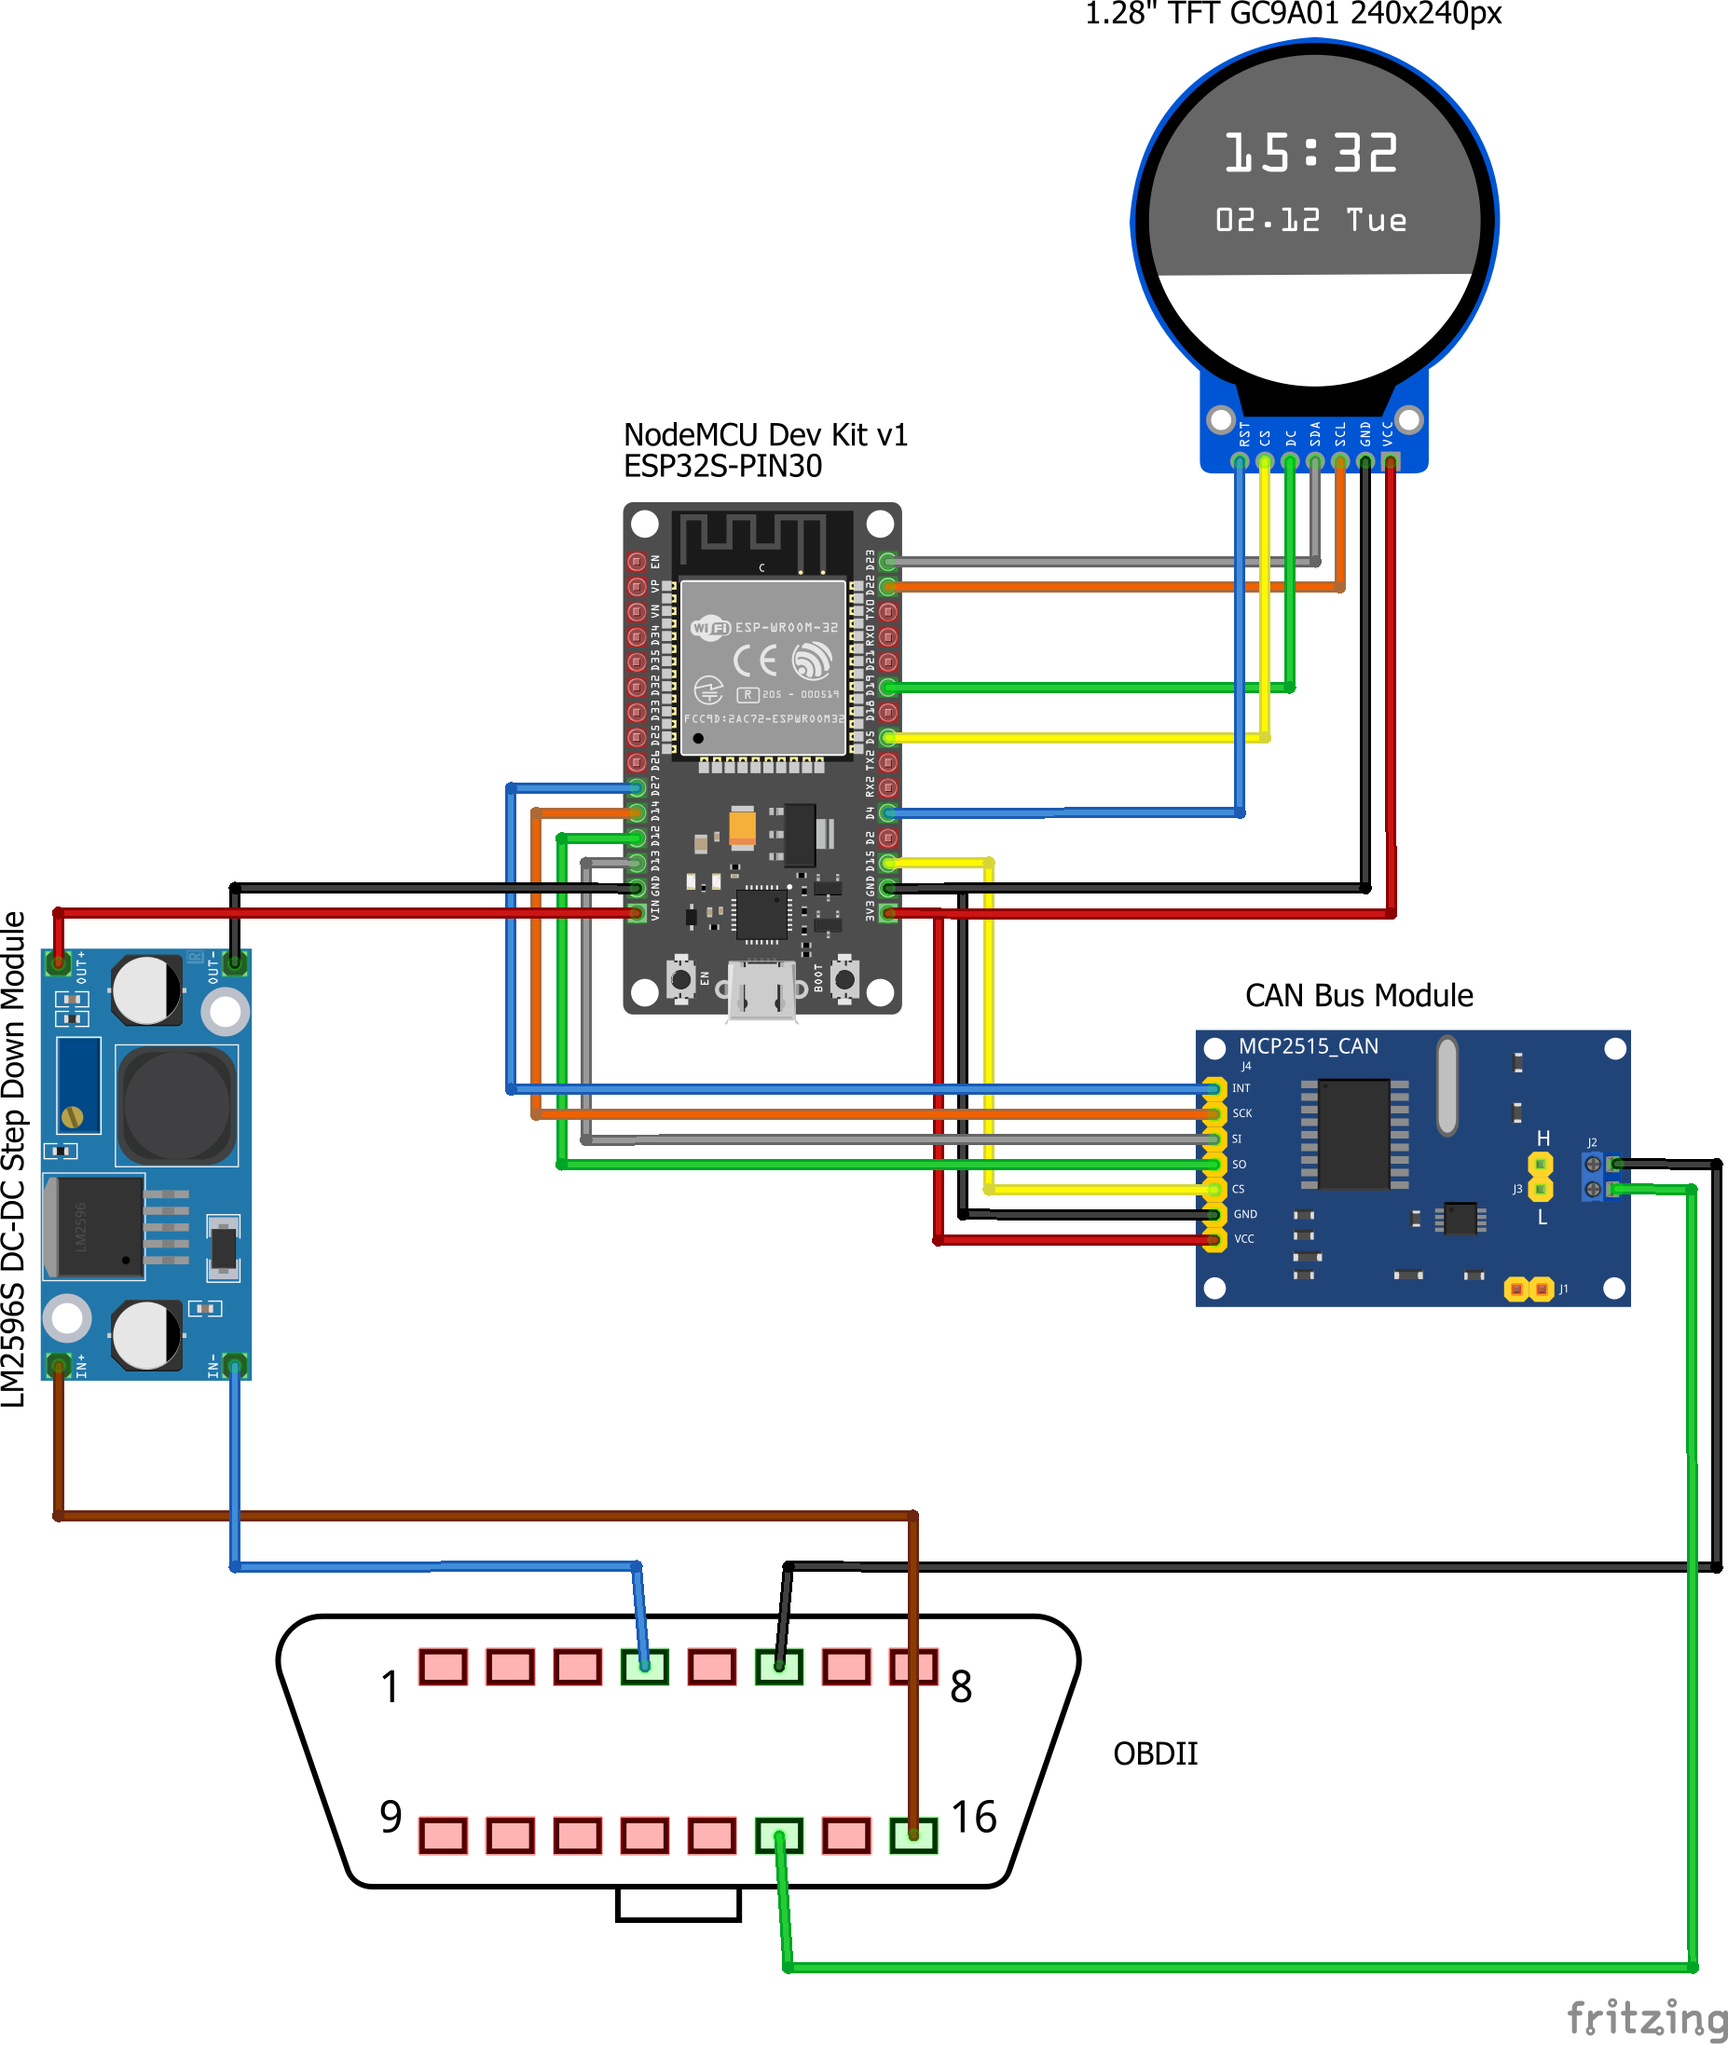
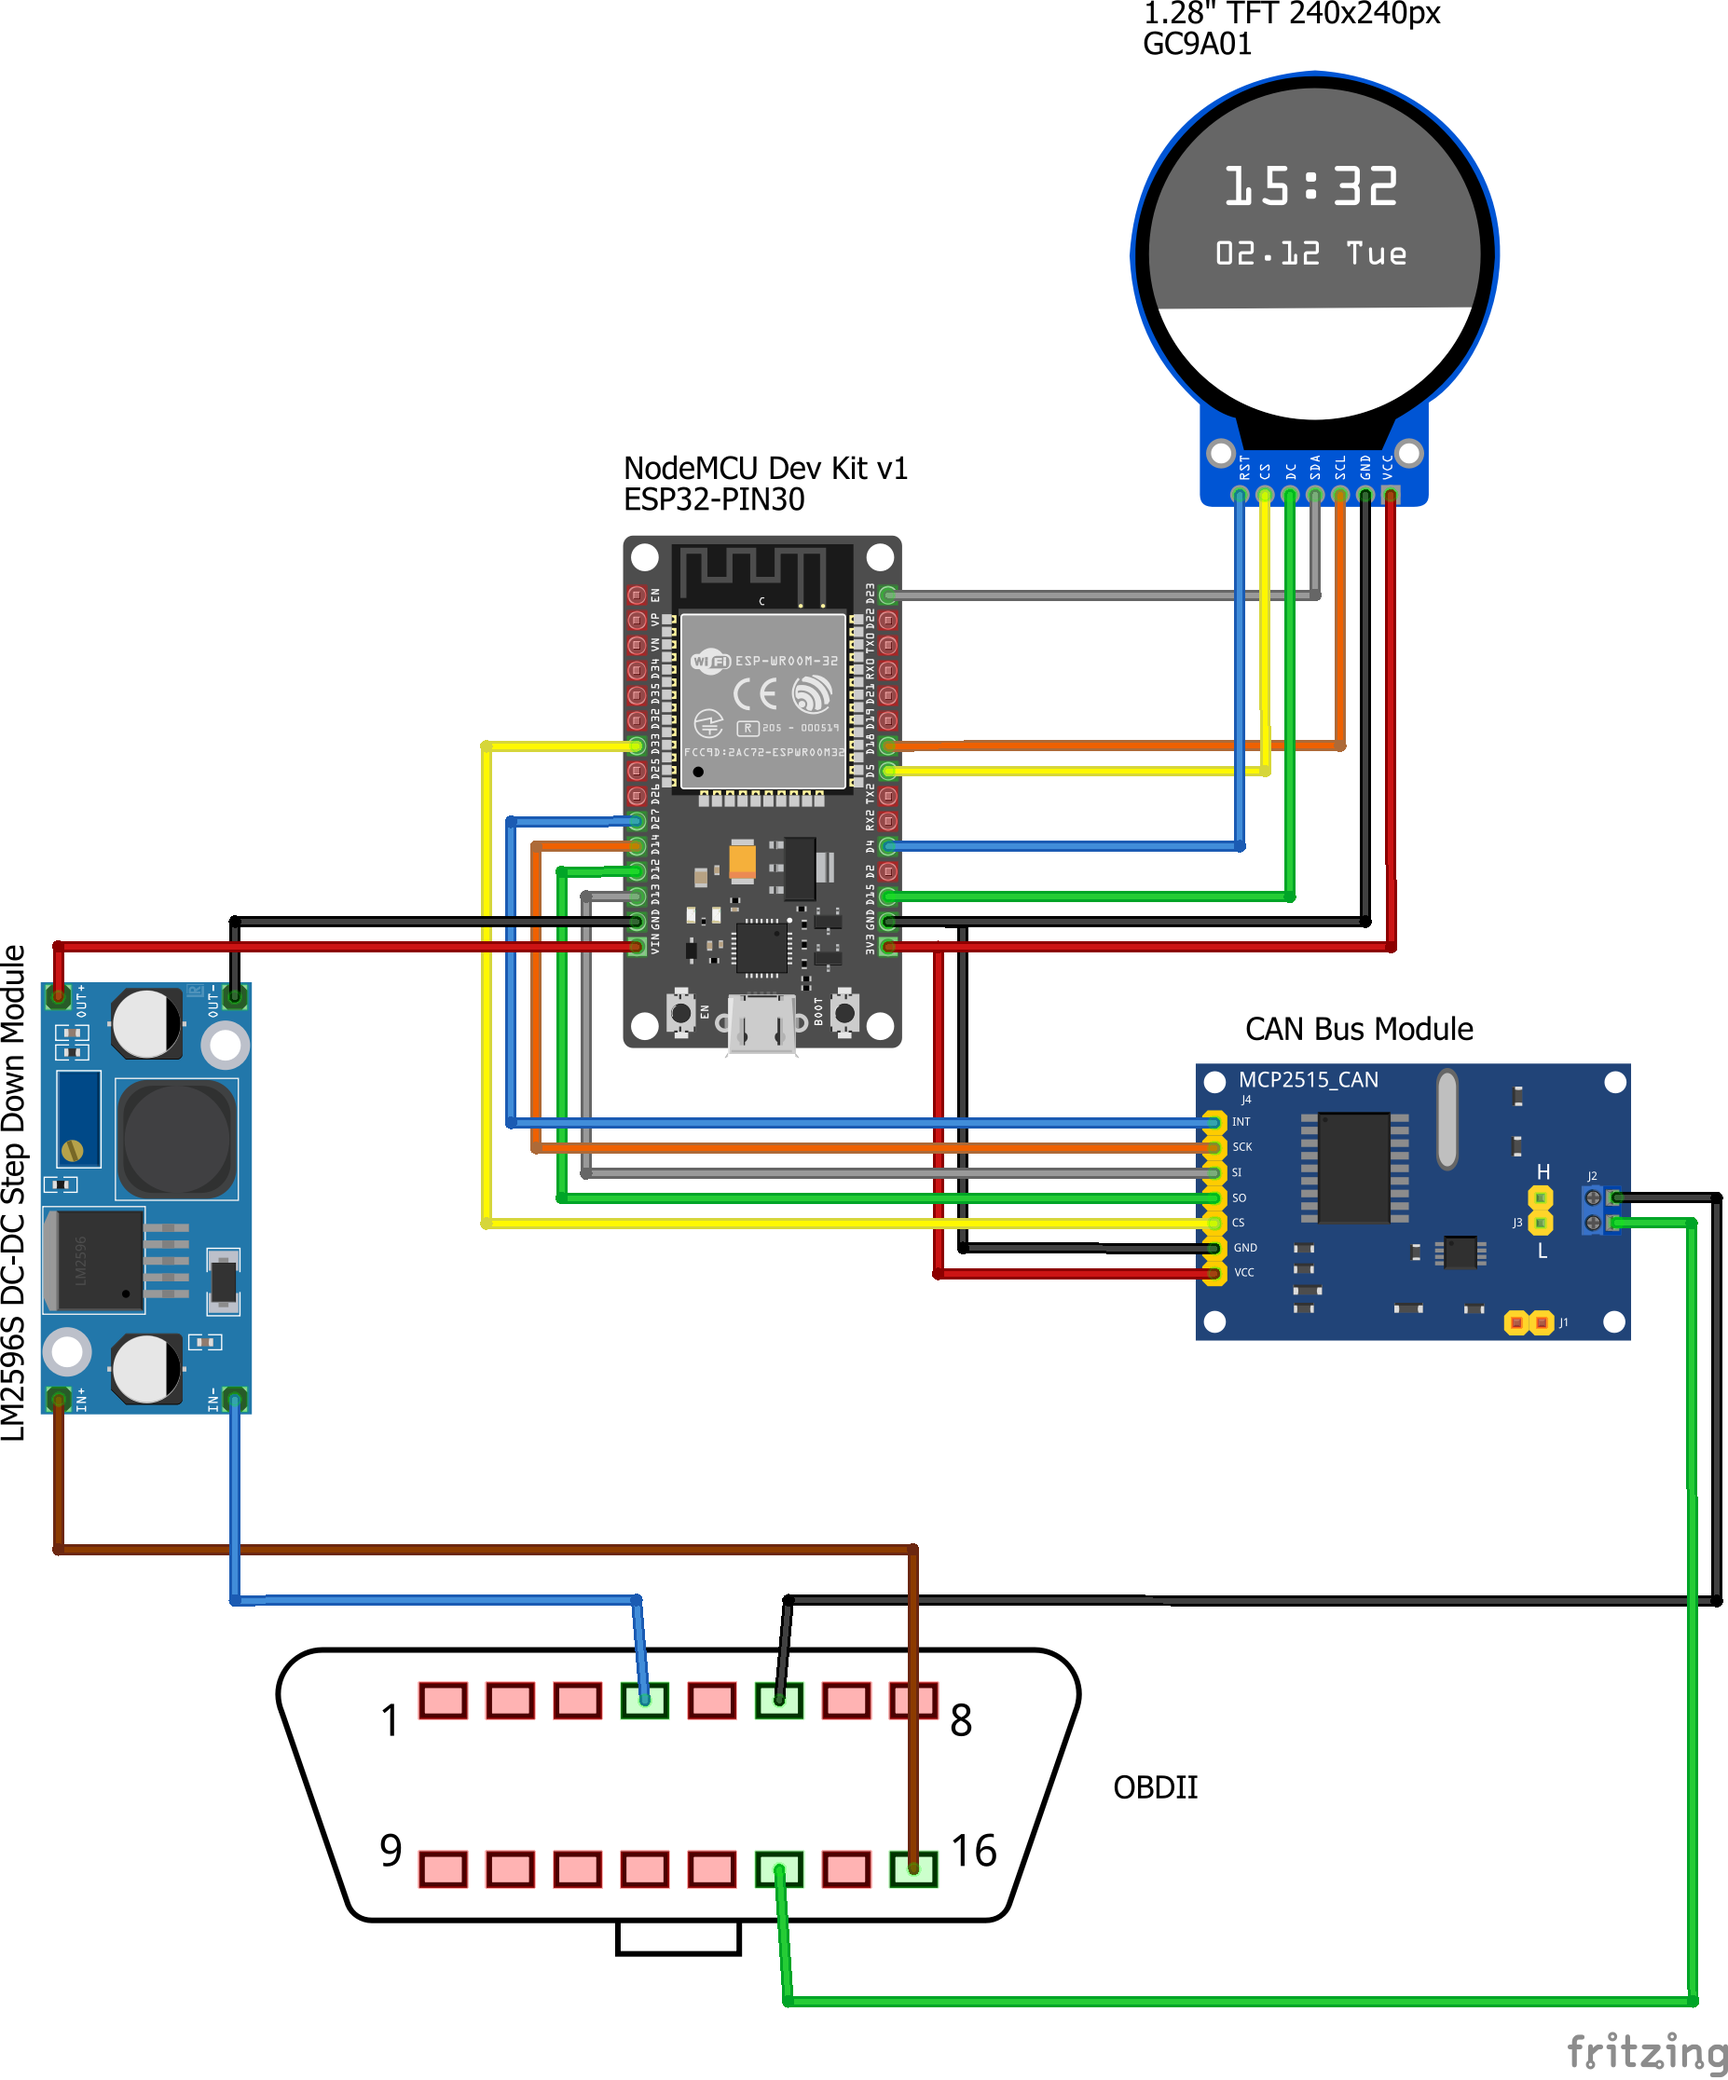
HW v2 update

diff --git a/README.md b/README.md
@@ -14,12 +14,14 @@ Shows some details of the electronic system of the car, send it to a central (ho
 
 ---
 # Hardware (Development enviroment):
+## Version 1
 - [LilyGo T-Display S3](https://lilygo.cc/products/t-display-s3?variant=42284559827125) (ESP32 + 1,9" 8Bit LCD Screen)
 - [MCP 2515 Can Bus module](https://www.az-delivery.de/products/mcp2515-can-bus-modul-1)
 - 3D printed OBD2 plug
+- 3D printed housing
 
-## Wireing:
-![fizing diagram](info/hardware/v1 - LilyGo T-Display S3/Wireing.png)
+### Wireing (Version 1):
+![fizing diagram](info/hardware/v1%20-%20LilyGo%20T-Display%20S3/Wireing.png)
 
 |  | T-Display S3 | MCP2515_CAN |
 |-|-|-|
@@ -30,6 +32,14 @@ Shows some details of the electronic system of the car, send it to a central (ho
 | SPI MOSI | PIN 11 | SI |
 | Serial clock | PIN 12 | SCK |
 | Interrupt | PIN 3 | INT |
+
+## Version 2
+- [NodeMCU ESP32 Development Board 30 PIN](https://amzn.eu/d/eRXytsF)
+- [1,28" TFT round GC9A01](https://amzn.eu/d/7S9U4s6)
+- [MCP 2515 Can Bus module](https://www.az-delivery.de/products/mcp2515-can-bus-modul-1)
+
+### Wireing (Version 2):
+![v2 wireing diagram](info/hardware/v2%20-%201.28%20round%20TFT/HWv2_wireing.png)
 
 # Software:
 Build as **PlatformIO** project in **Visual Studio Code**.
